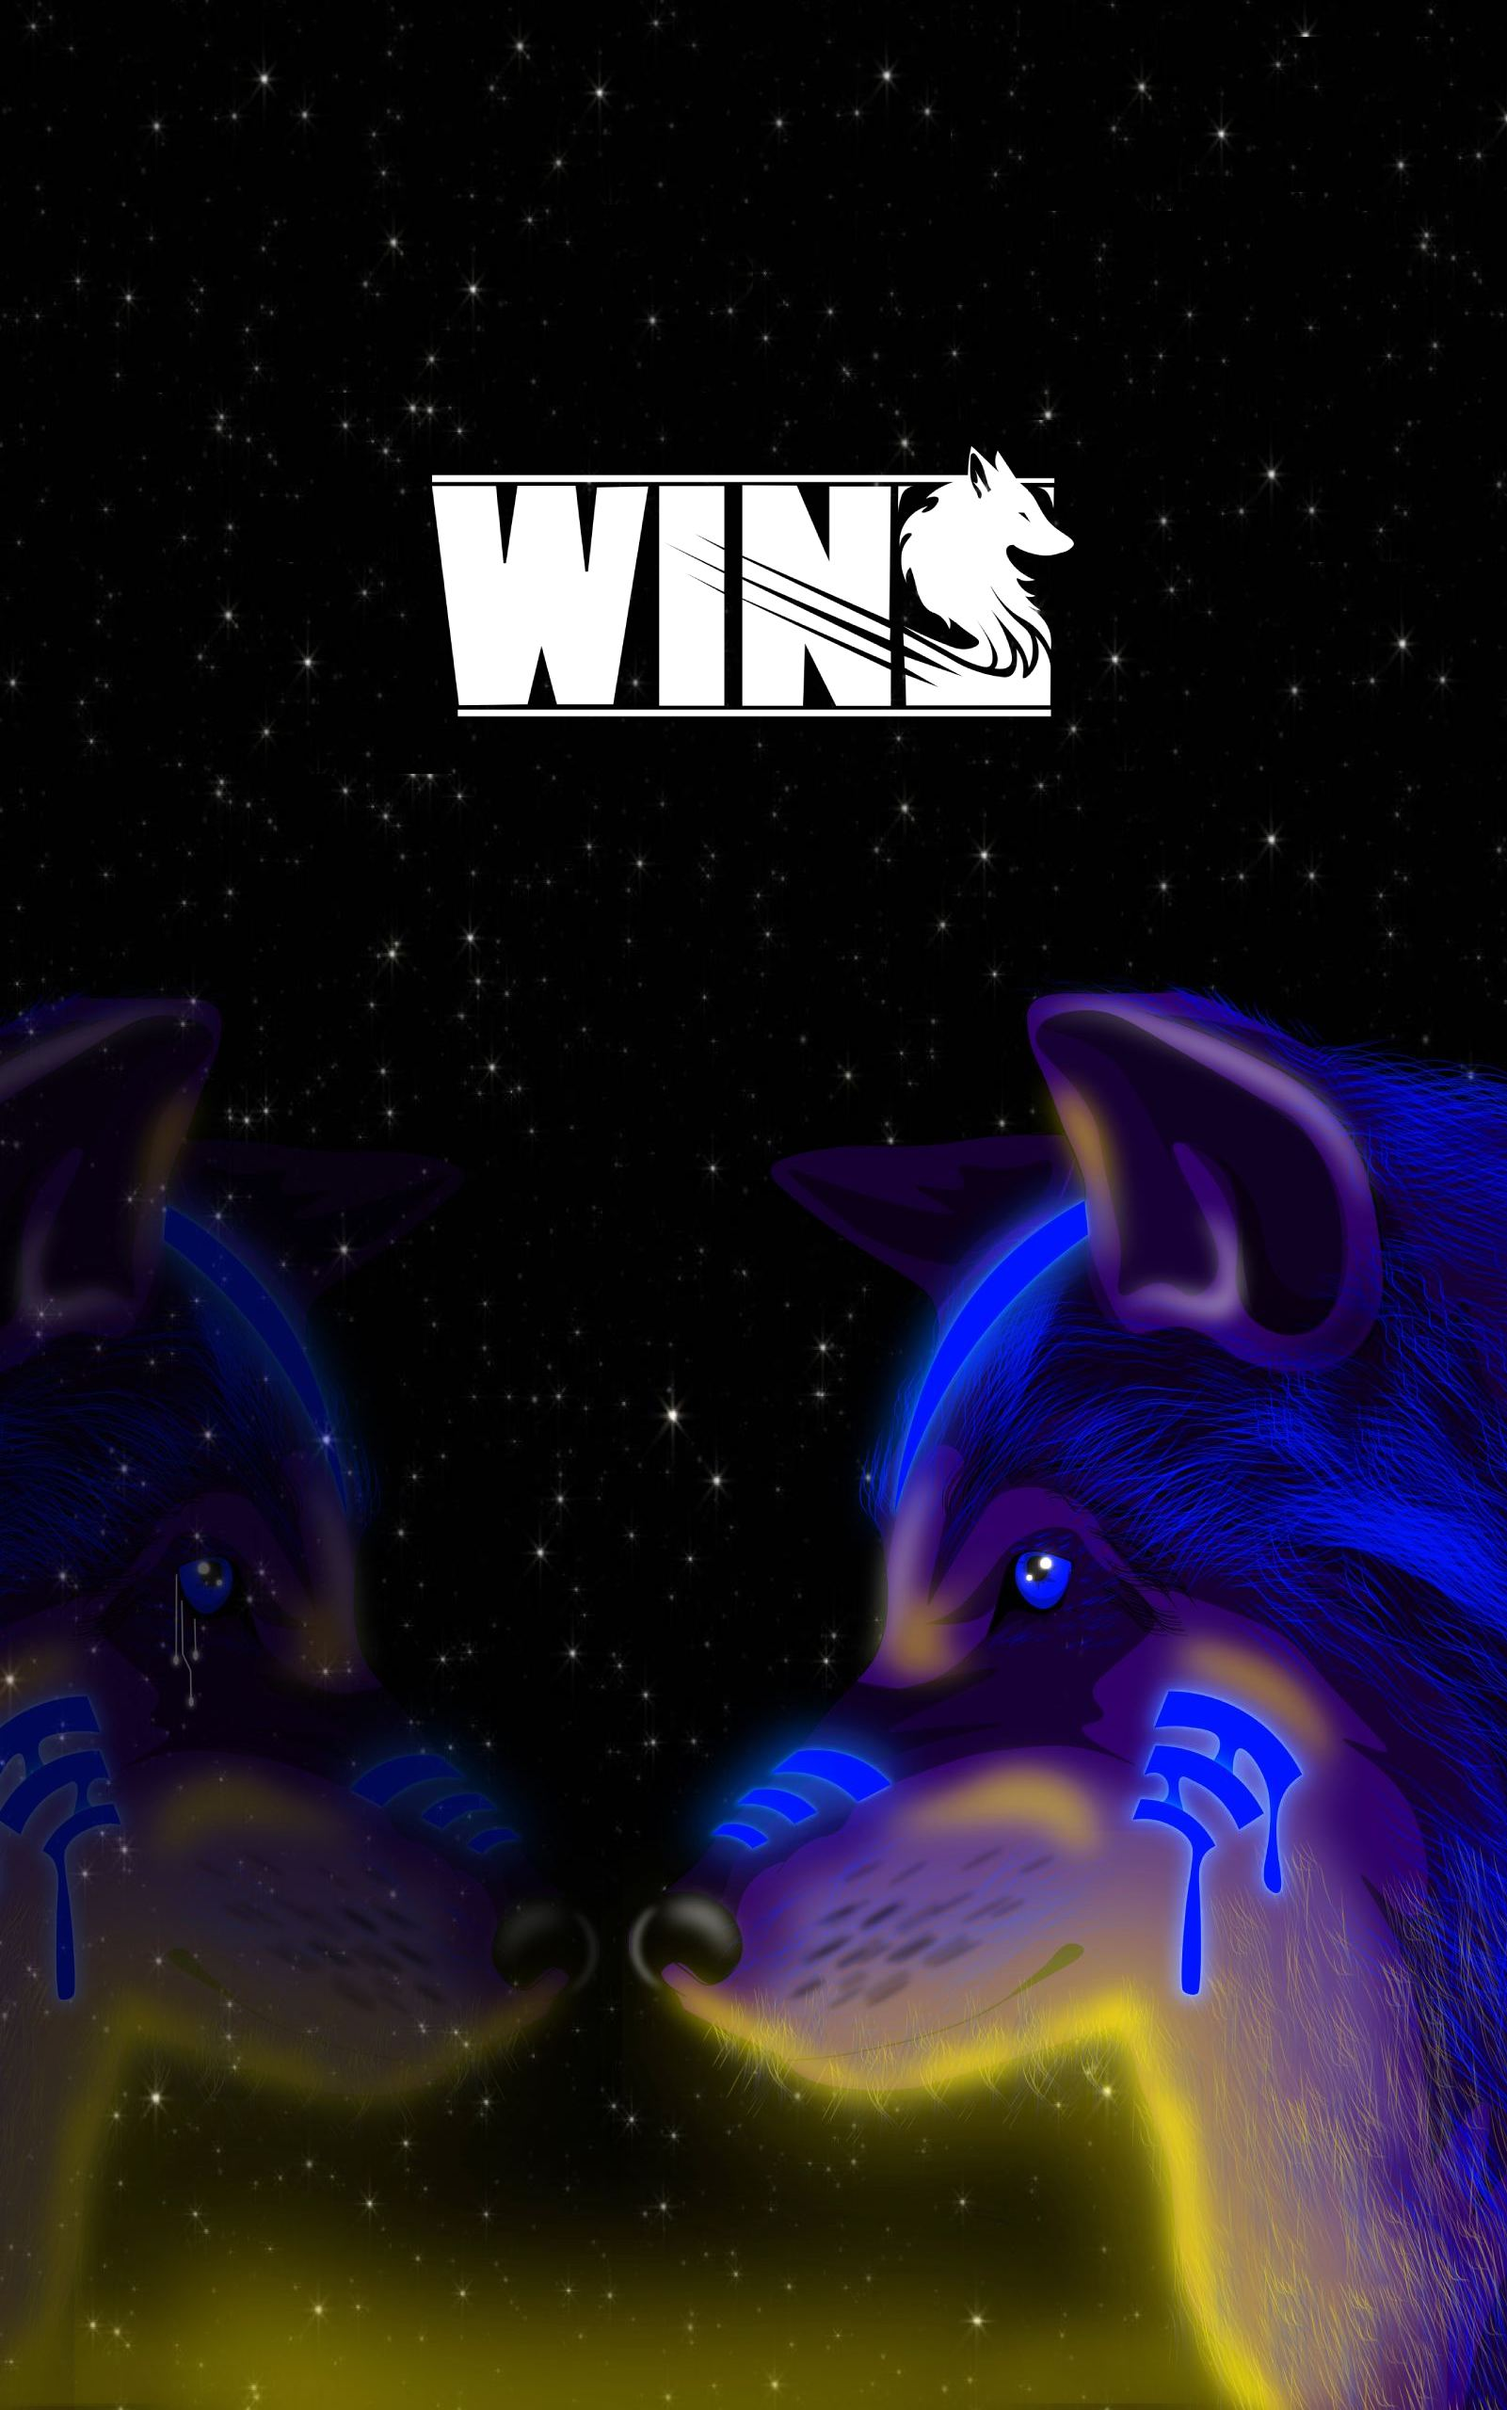
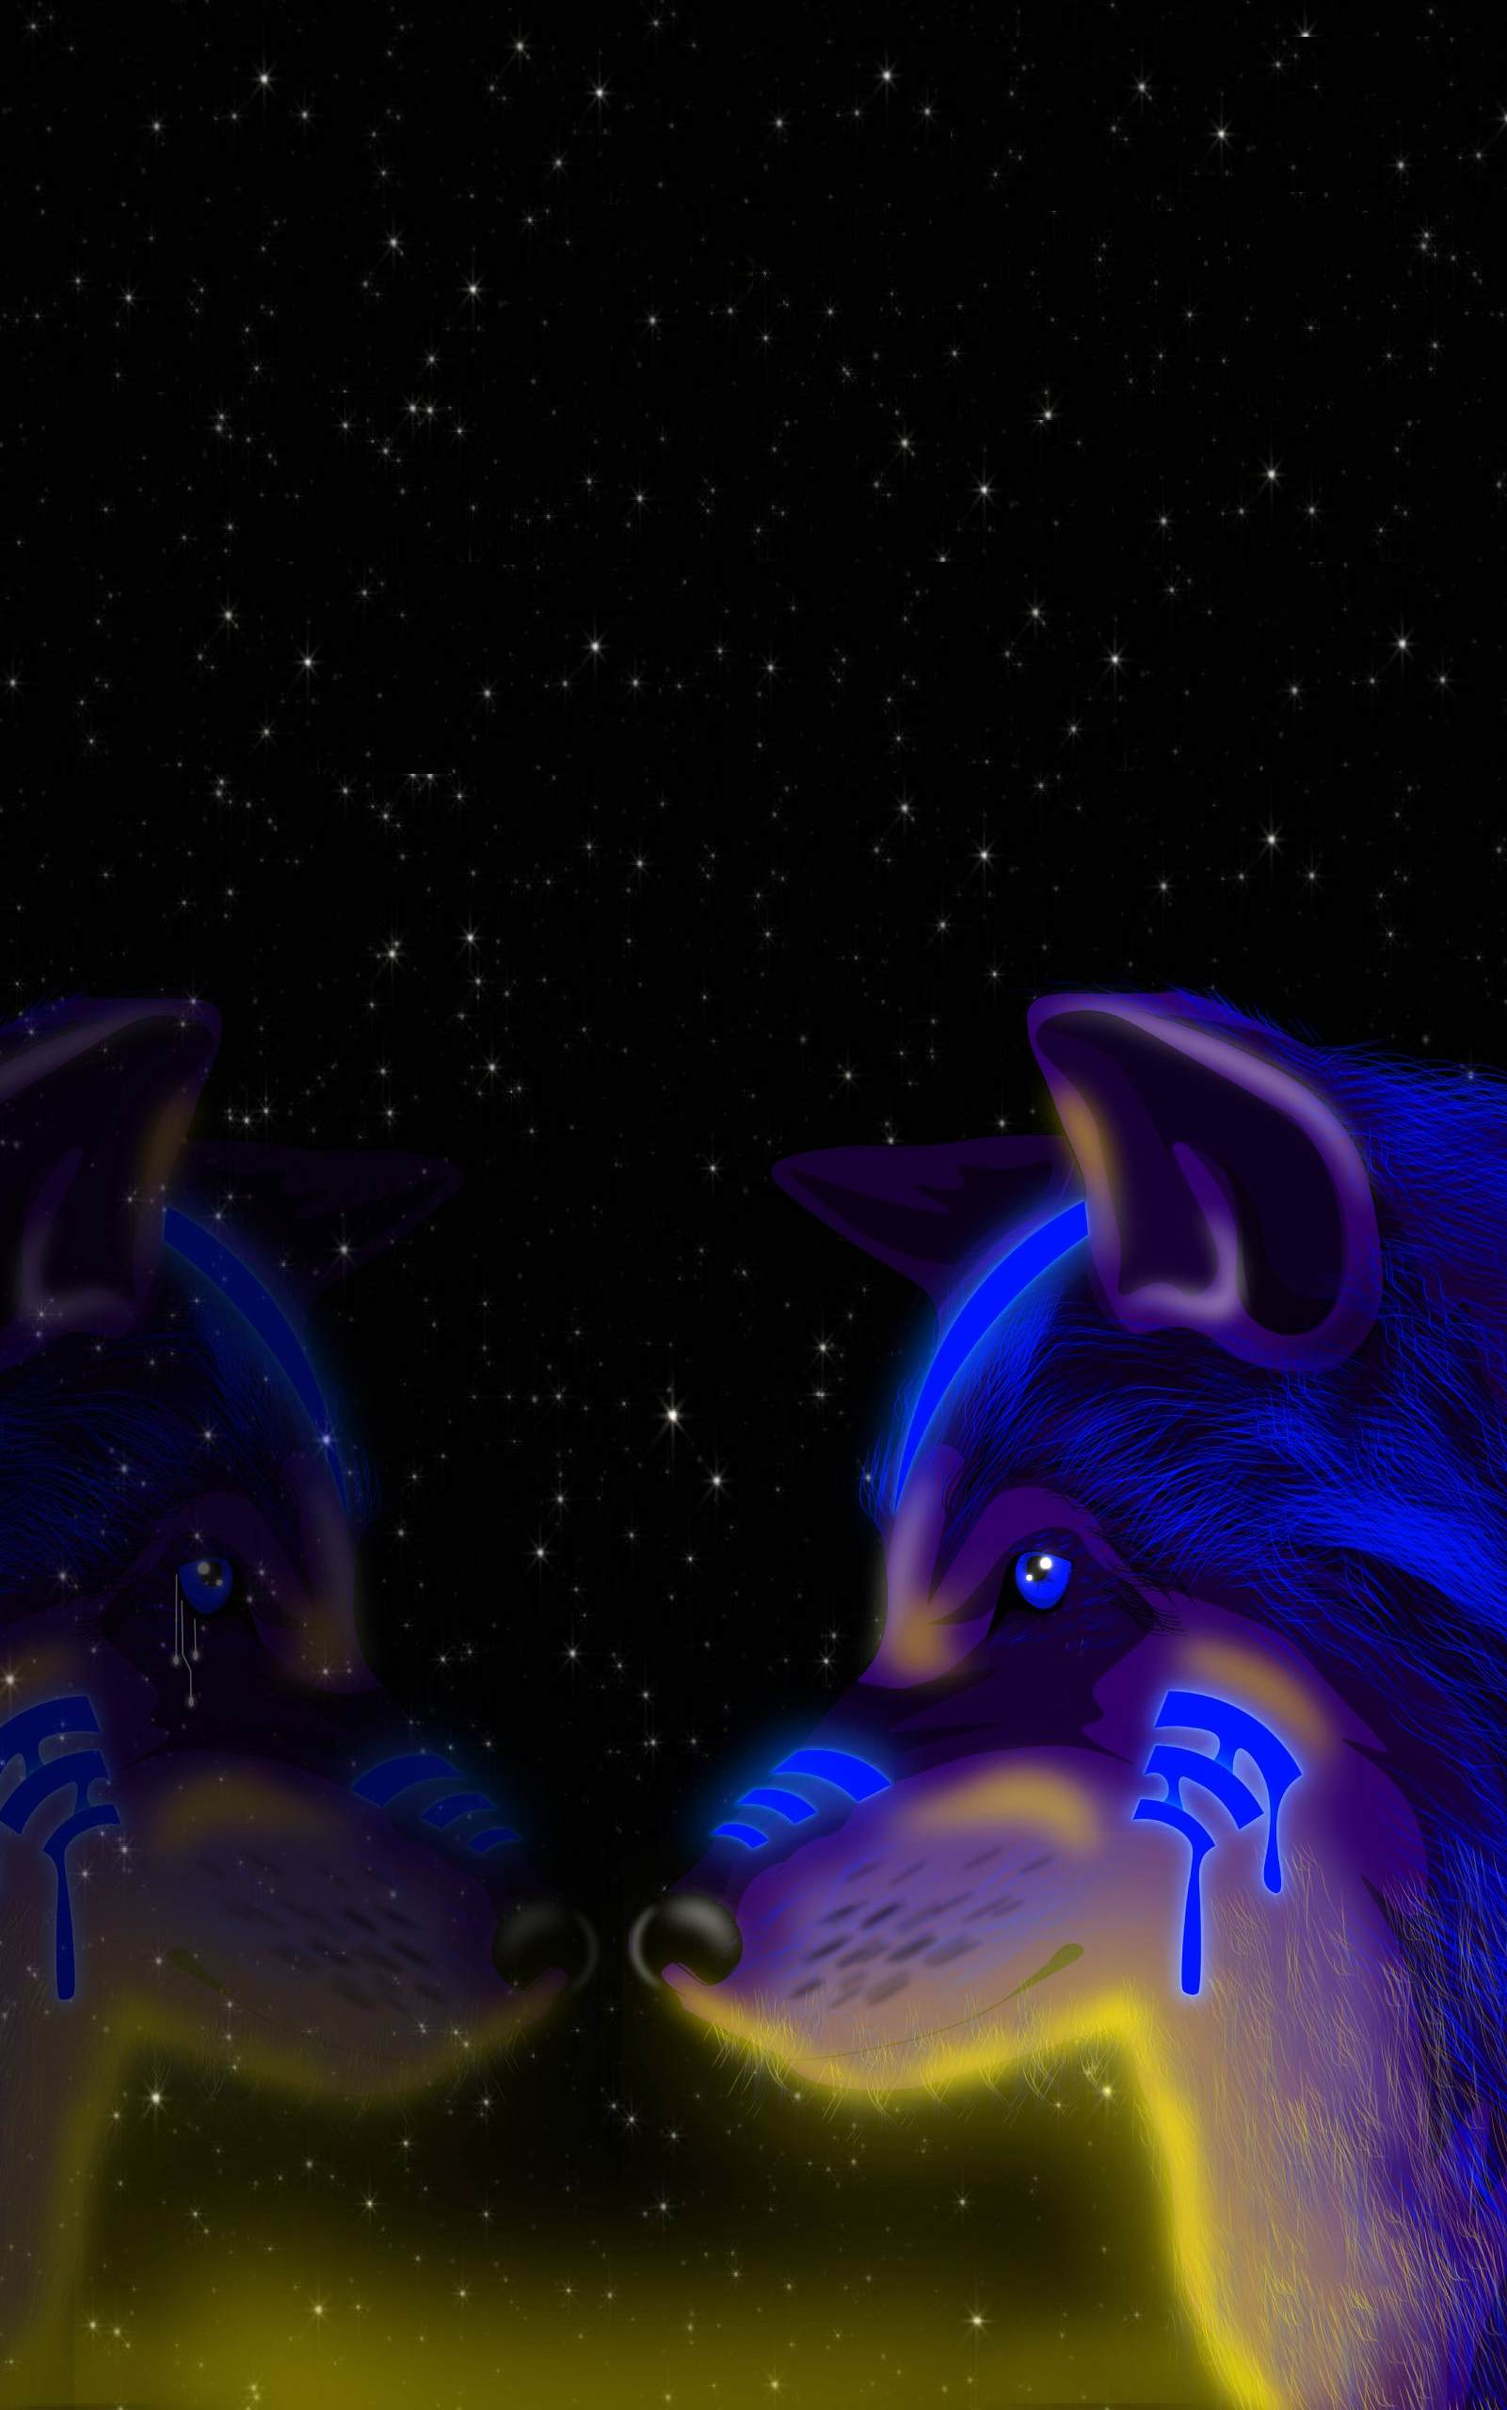
update

Changed region(s): [[0.2811, 0.1875, 0.7183, 0.3125]]

diff --git a/src/components/sections/Main.js b/src/components/sections/Main.js
@@ -5,6 +5,8 @@ import ButtonGroup from '../elements/ButtonGroup';
 import Button from '../elements/Button';
 import discordLogo from './../../assets/images/discordLogo.png';
 import classNames from 'classnames';
+import Image from '../elements/Image';
+import WolfWhite from './../../assets/images/WolfWhite.svg';
 
 
 
@@ -12,8 +14,16 @@ import classNames from 'classnames';
 const MainDesktop = () => {
   return (
     <div className='main'>
-        <div className="overlay"></div>
+            
         <div className="content">
+
+        <Image
+                src={WolfWhite} 
+                alt="Wins Wolf"
+                width={250}
+                height={170} />
+           
+            <div className='content-button'>
             <h1>Full site coming soon</h1>
             <ButtonGroup>
               
@@ -23,6 +33,7 @@ const MainDesktop = () => {
                     </Button>
                 </ButtonGroup>
         </div>
+        </div>
         <video src={videoBg} autoPlay muted loop/>
     </div>
   );
@@ -30,18 +41,26 @@ const MainDesktop = () => {
 
 const MainMobile = () => {
     return (
-      <div className='main'>
-          <div className="overlay"></div>
-          <image src={imageBgMobile} />
+    
+      <div className='main mobile'>
           <div className="content">
-              <h1>Full site coming soon</h1>
-              <ButtonGroup>
+          <Image
+                src={WolfWhite} 
+                alt="Wins Wolf"
+                width={250}
+                height={170} />
+           
+            <div className='content-button'>
+            <h1>Full site coming soon</h1>
+            <ButtonGroup>
               <Button tag="a" color="dark" wideMobile href="https://discord.gg/YHSHqqa9DF" >
             <img className={classNames} src={discordLogo} />
              Join Disocrd
                     </Button>
                   </ButtonGroup>
           </div>
+          <image src={imageBgMobile} />
+      </div>
       </div>
     );
   };

diff --git a/src/assets/scss/theme/sections/_main.scss b/src/assets/scss/theme/sections/_main.scss
@@ -1,10 +1,16 @@
-.main {
-    background-image: url(../../../images/bgWolf.jpg);
+.main.mobile {
+    background-image: url(../../../images/bgWolfMobile.jpg);
     background-position: center;
     background-repeat: no-repeat;
     background-size: cover;
 }
+
 .main h1 {
+    font-size: xx-large;
+    margin-bottom: 10px!important;
+}
+
+.mainMobile h1 {
     font-size: xx-large;
     margin-bottom: 10px!important;
 }

diff --git a/src/assets/scss/core/sections/_main.scss b/src/assets/scss/core/sections/_main.scss
@@ -19,6 +19,21 @@ video {
 .content {
   position: absolute;
   width: 100%;
+  height: 100vh;
+  top: 0;
+  display: flex;
+  flex-direction: column;
+  justify-content: flex-start;
+  align-items: center;
+  color: white;
+  padding-top: 50px;
+
+}
+
+
+.content-button {
+  position: absolute;
+  width: 100%;
   height: 100%;
   top: 0;
   display: flex;
